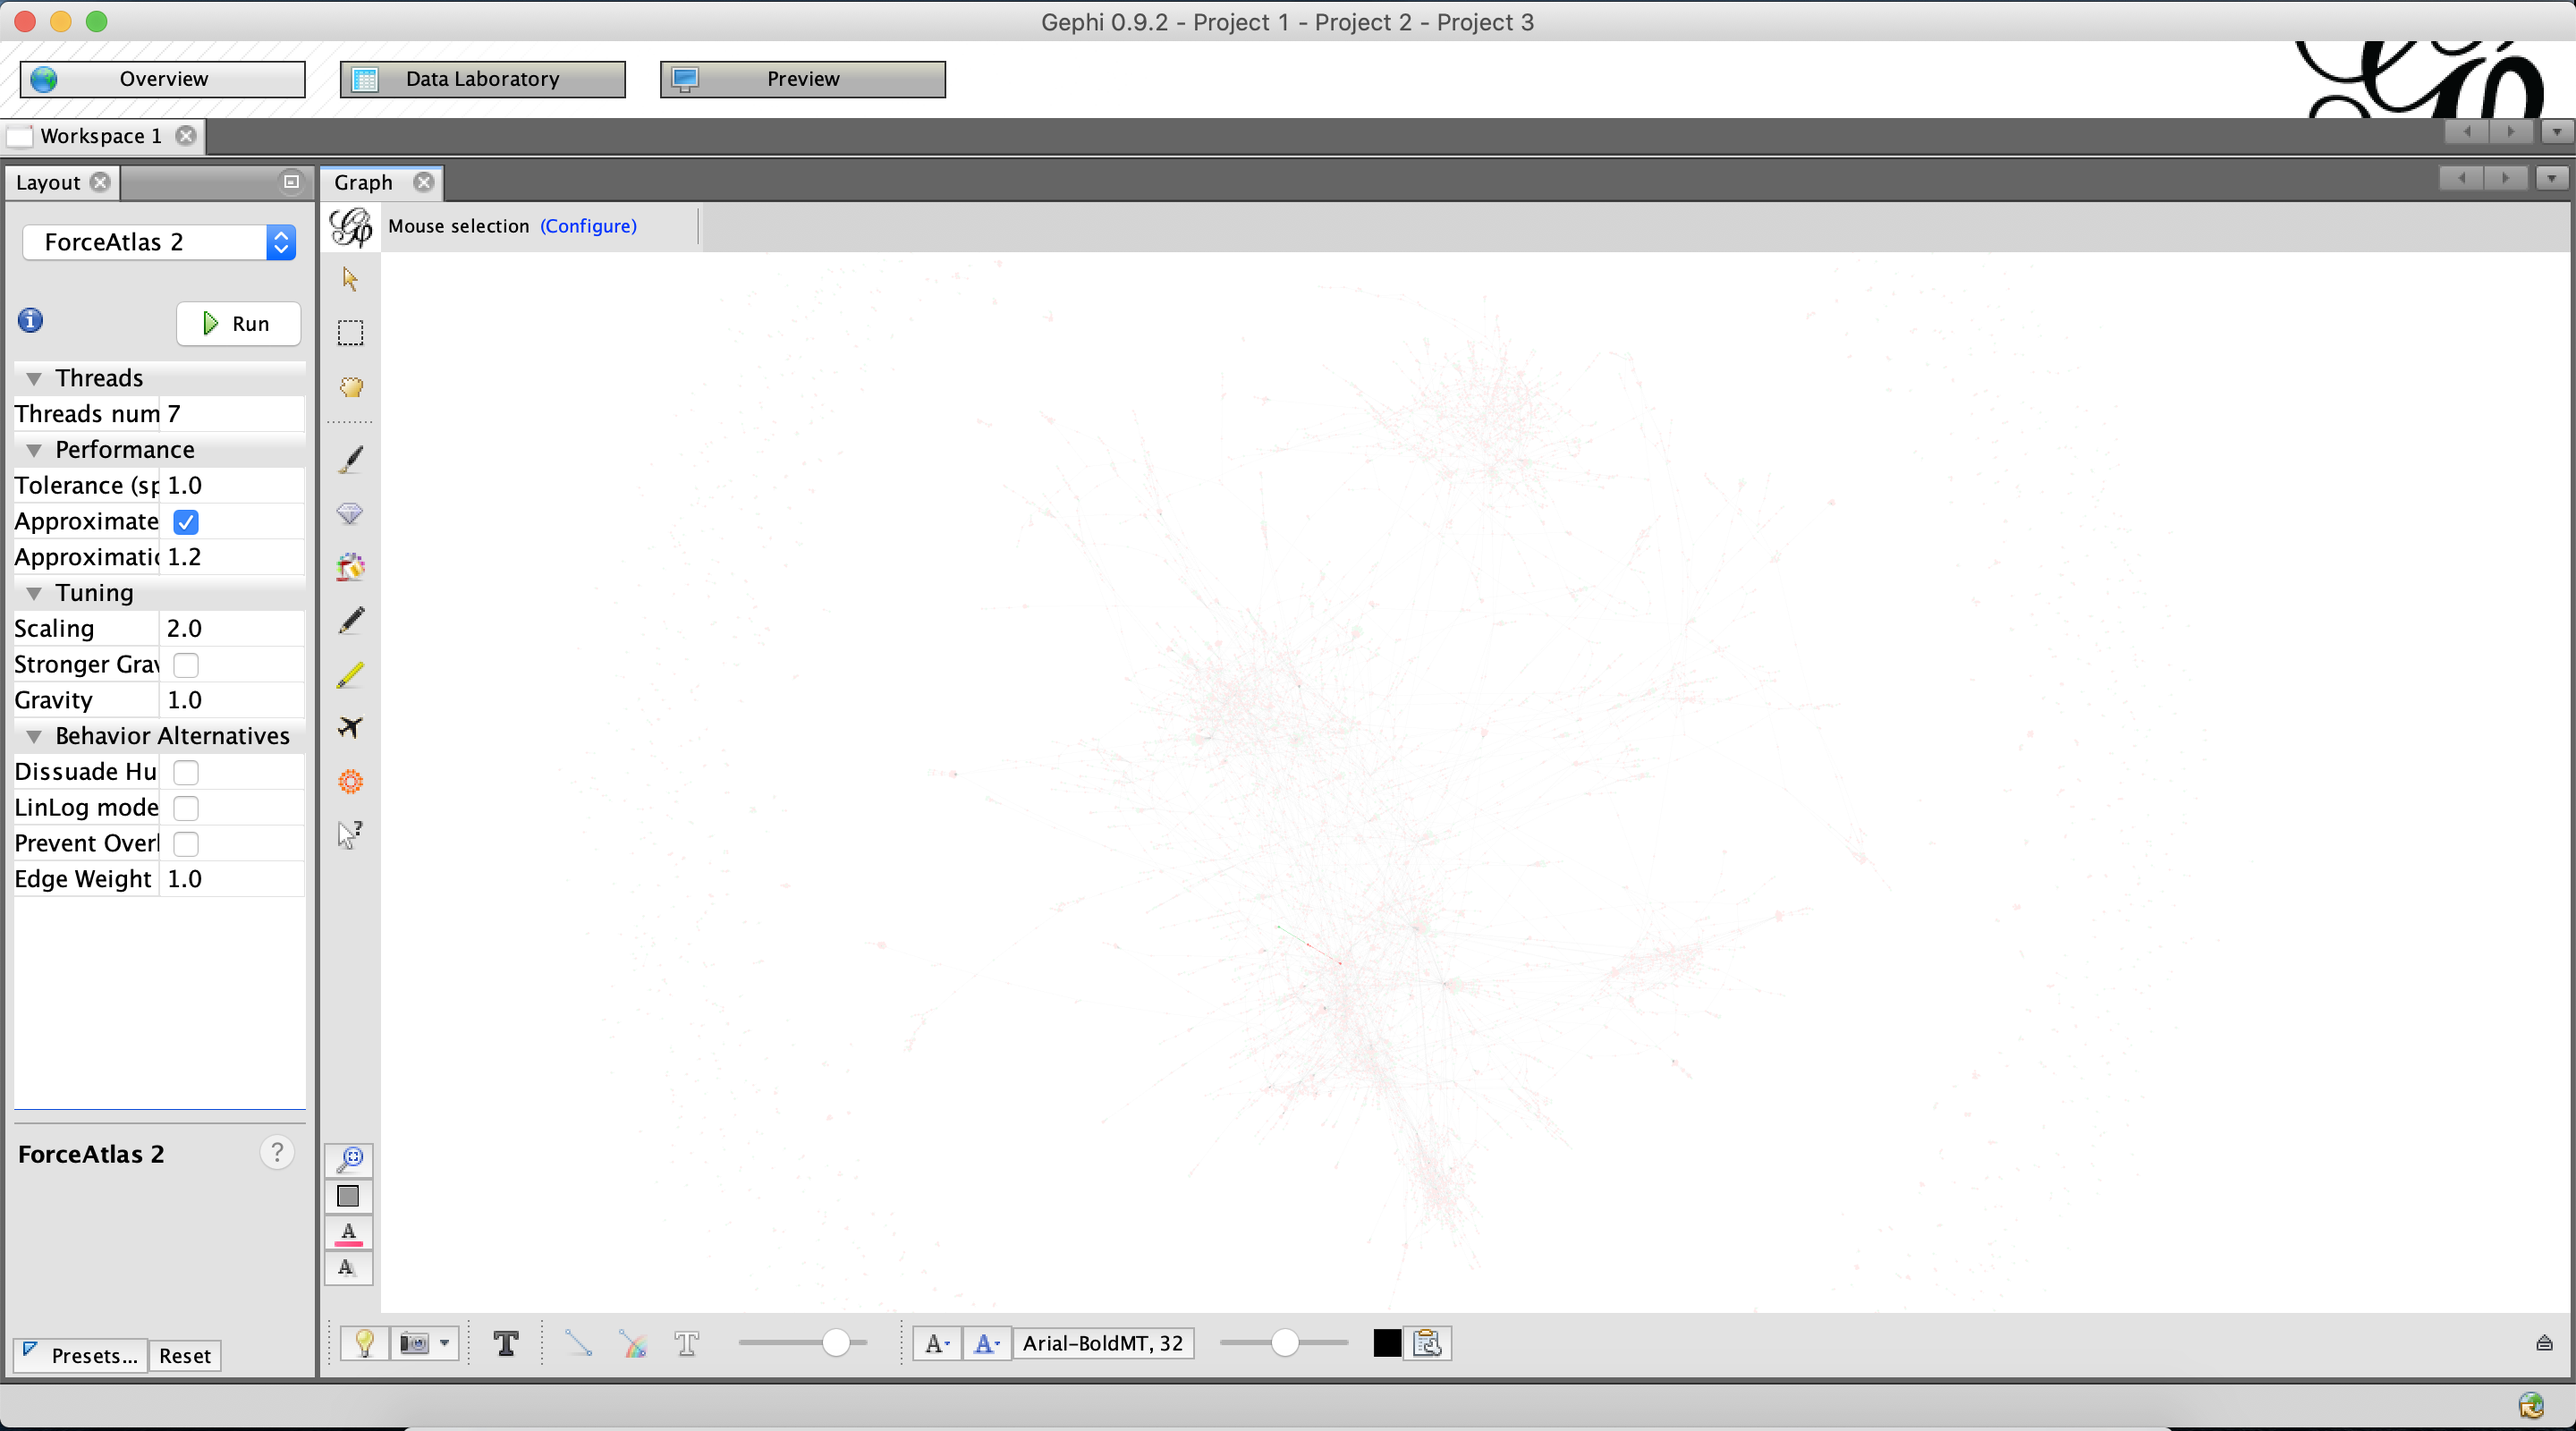
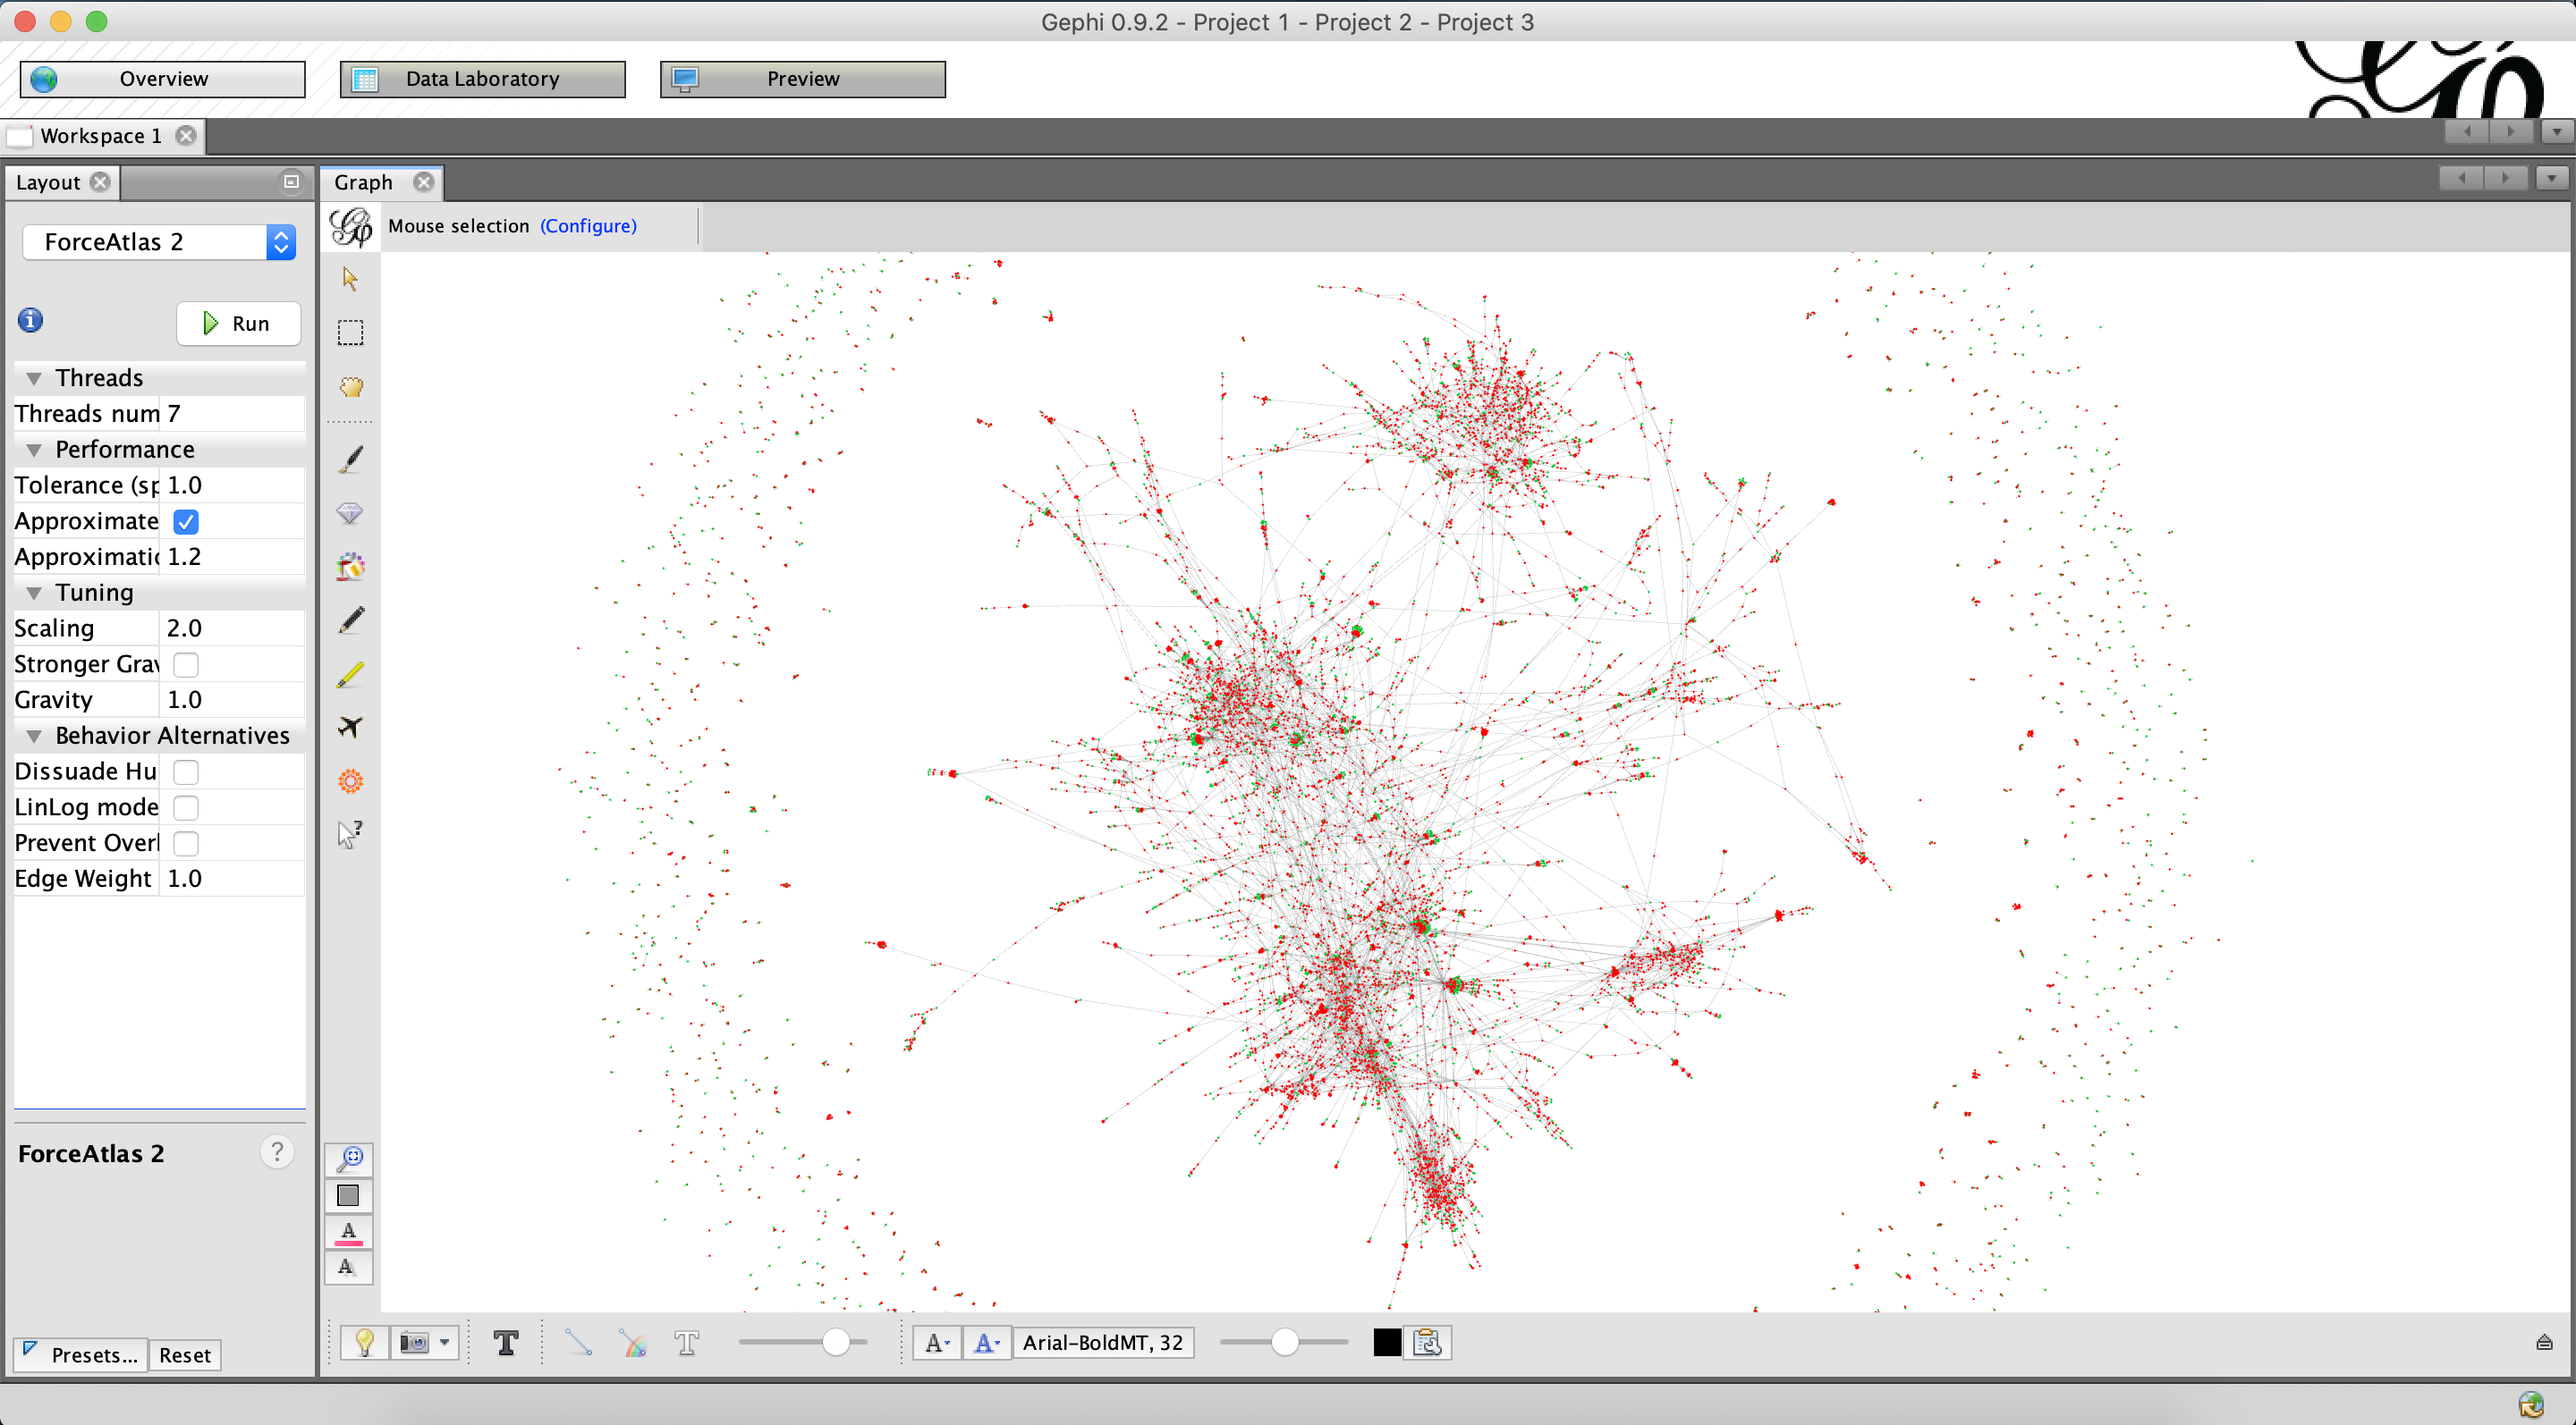
add full graph screenshot and instructions

diff --git a/README.md b/README.md
@@ -124,9 +124,9 @@ When this list is used to seed the graph construction process, and enough hops a
 
 Once constructed, the graph can be fruitfully visualized with the Yifan Hu and Force Atlas 2 layout algorithms in Gephi. (Other algorithms tend not to be as effective.)
 
-![screenshot](full_graph_yifan_hu.png)
+![screenshot](static/full_graph_yifan_hu.png)
 
-![screenshot](full_graph_force_atlas_2.png)
+![screenshot](static/full_graph_force_atlas_2.png)
 
 # Feedback, License
 
